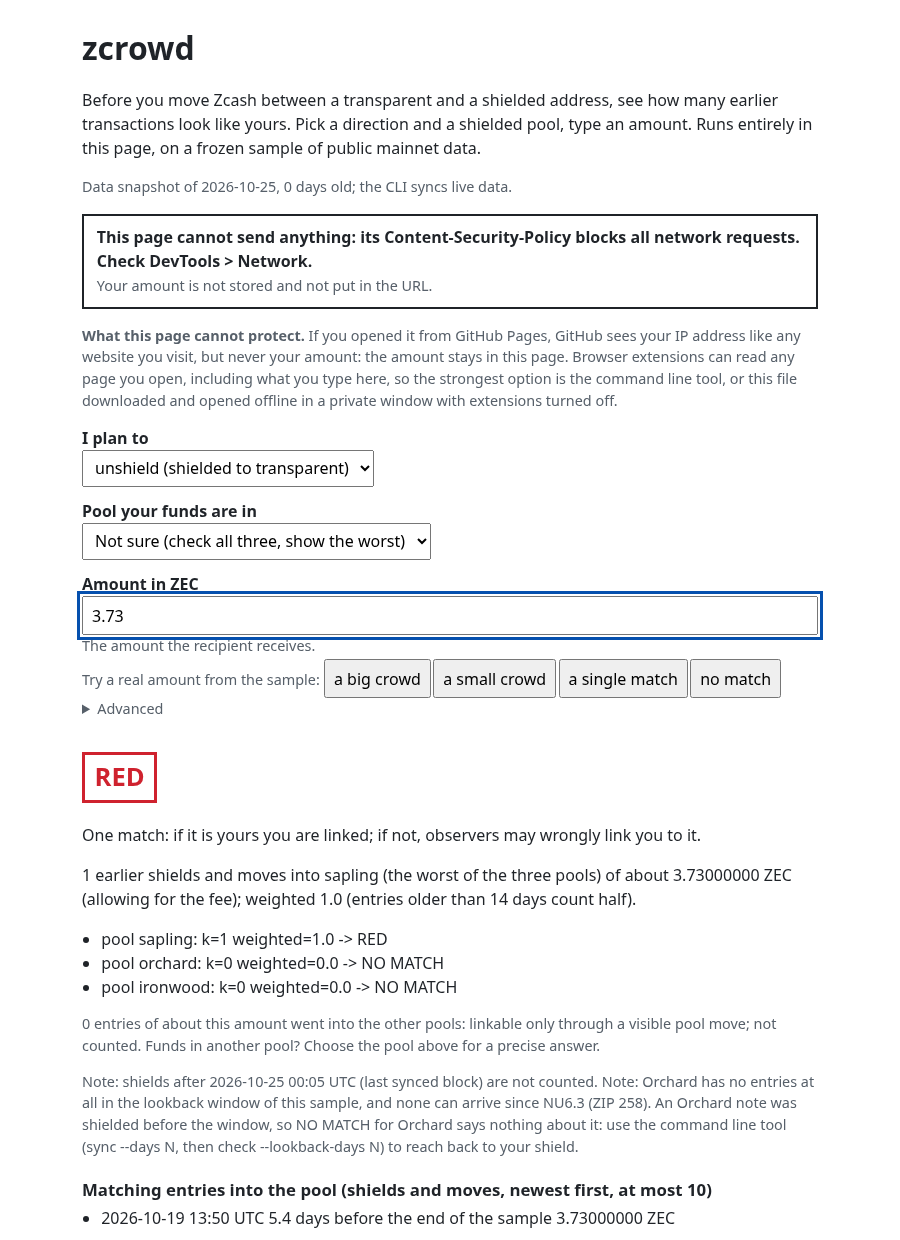
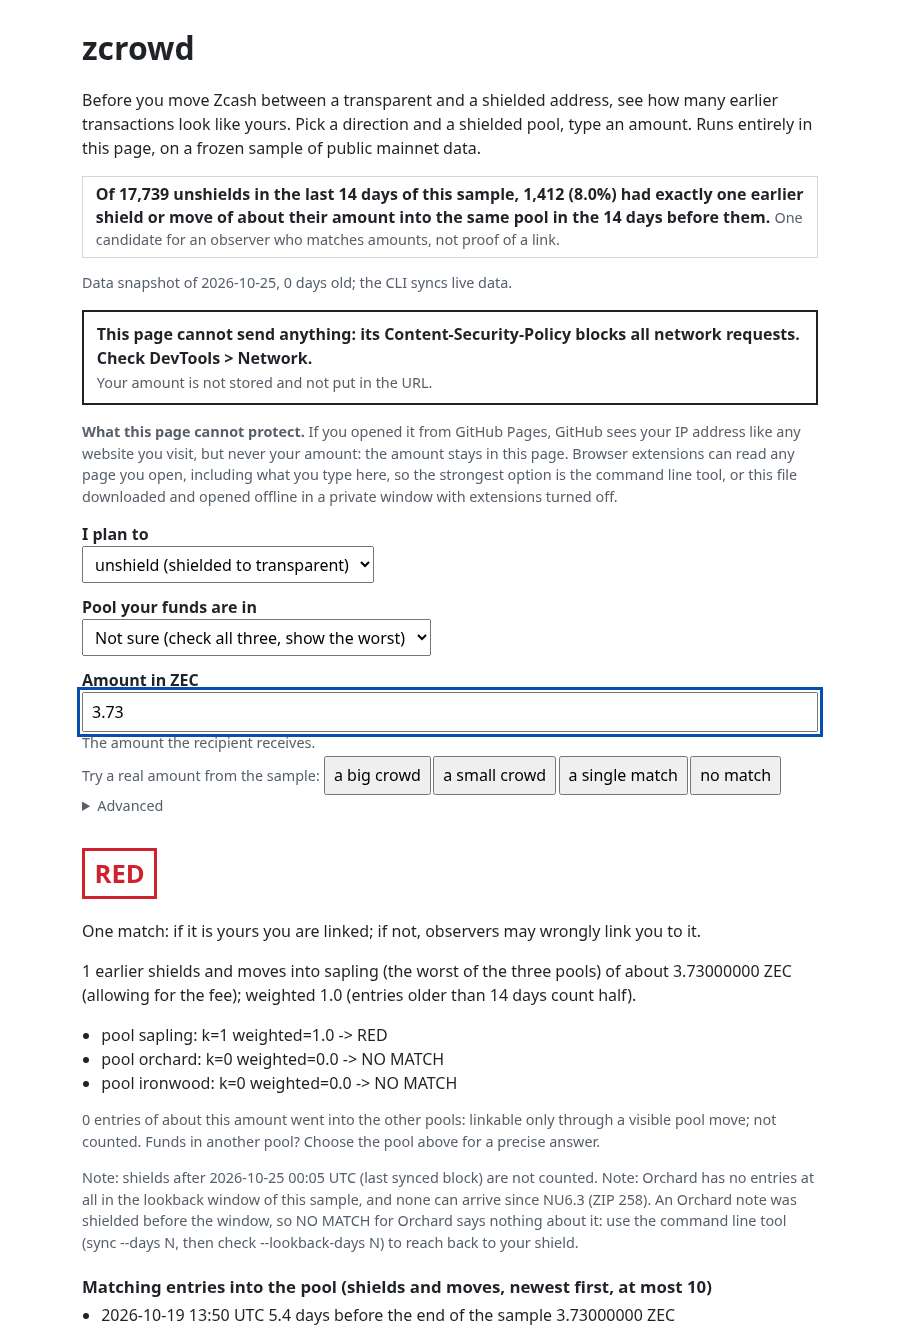
Web page: first box with the report's figures; size, SHA-256 and screenshot re-pinned
The page now opens with one box: of 17,739 unshields in the last 14 days of the
sample, 1,412 (8.0%) had exactly one earlier shield or move of about their
amount into the same pool in the 14 days before them. The text is fixed in the
template. tests/e2e.sh fails if its first words change or if the report's RED
row is not 1,412 (8.0%).

At 1280x800 the amount input stays on the first screen (top 692 px, bottom
731 px of 800). A taller version with three crowd cards put it at 819 px, below
the fold, and was not used.

web/index.html is rebuilt (836,193 bytes). README: the SHA-256 (3.1), the size
(13), the Tested code row, the hosted read-back dated to the page before the
box, a NOT VERIFIED line for the new hosted copy, the box described in 13, the
screenshot and its alt text. NOTES: the S9e size row. PRIVACY: the code-freeze
sentence.

Claude-Session: https://claude.ai/code/session_01GAS3TwEvq8rdhgJTGSQMuH

Changed region(s): [[0.0622, 0.0306, 0.9333, 1.0]]

diff --git a/web/index.html b/web/index.html
@@ -25,11 +25,13 @@
   :focus-visible { outline: 3px solid #0550ae; outline-offset: 2px; }
   ::placeholder { color: #57606a; opacity: 1; }
   select { max-width: 100%; }
+  .hero { border: 1px solid #d0d7de; padding: .4rem .8rem; margin: .75rem 0; line-height: 1.4; }
 </style>
 </head>
 <body>
 <h1>zcrowd</h1>
 <p>Before you move Zcash between a transparent and a shielded address, see how many earlier transactions look like yours. Pick a direction and a shielded pool, type an amount. Runs entirely in this page, on a frozen sample of public mainnet data.</p>
+<p class="hero"><b>Of 17,739 unshields in the last 14 days of this sample, 1,412 (8.0%) had exactly one earlier shield or move of about their amount into the same pool in the 14 days before them.</b> <span class="small">One candidate for an observer who matches amounts, not proof of a link.</span></p>
 <p class="small" id="snapshot"></p>
 
 <p class="box" id="cannot-send"><b>This page cannot send anything: its Content-Security-Policy blocks all network requests. Check DevTools &gt; Network.</b><br>

diff --git a/web/index.template.html b/web/index.template.html
@@ -25,11 +25,13 @@
   :focus-visible { outline: 3px solid #0550ae; outline-offset: 2px; }
   ::placeholder { color: #57606a; opacity: 1; }
   select { max-width: 100%; }
+  .hero { border: 1px solid #d0d7de; padding: .4rem .8rem; margin: .75rem 0; line-height: 1.4; }
 </style>
 </head>
 <body>
 <h1>zcrowd</h1>
 <p>Before you move Zcash between a transparent and a shielded address, see how many earlier transactions look like yours. Pick a direction and a shielded pool, type an amount. Runs entirely in this page, on a frozen sample of public mainnet data.</p>
+<p class="hero"><b>Of 17,739 unshields in the last 14 days of this sample, 1,412 (8.0%) had exactly one earlier shield or move of about their amount into the same pool in the 14 days before them.</b> <span class="small">One candidate for an observer who matches amounts, not proof of a link.</span></p>
 <p class="small" id="snapshot"></p>
 
 <p class="box" id="cannot-send"><b>This page cannot send anything: its Content-Security-Policy blocks all network requests. Check DevTools &gt; Network.</b><br>

diff --git a/README.md b/README.md
@@ -6,7 +6,7 @@
 
 **Try it:** the [live demo](https://kylne700.github.io/zcrowd/) (the one-file web page of section 13; GitHub sees your visit, never the amount) or the [demo video](https://youtu.be/ZAxaw6B81Ug).
 
-![The zcrowd web page opened from a local file after the amount 3.73 was typed for an unshield: the verdict RED (one earlier shield of about that amount, in Sapling), the three pool lines, the notes and the first matching entry.](docs/screenshot.png)
+![The zcrowd web page opened from a local file: the box with the report's figures first, then, after the amount 3.73 was typed for an unshield, the verdict RED (one earlier shield of about that amount, in Sapling), the three pool lines, the notes and the first matching entry.](docs/screenshot.png)
 
 An unshield (money leaving a shielded pool) shows its amount in public, and so did the shield it came from. If nobody else
 shielded about that amount around that time, an observer can pair the two. zcrowd reads the public record of every shield,
@@ -21,7 +21,7 @@ web page. It computes only what any chain observer can already compute, for your
 | Rust | 1.90 or newer (`rust-version` in `Cargo.toml`; `cargo +1.90.0 check --workspace --all-targets --locked` passes). The tests and the audit ran on 1.97.1, the version CI pins (the repository has no `rust-toolchain` file, so your own toolchain is used); the tests under 1.90 are NOT VERIFIED. A C compiler is needed (SQLite is bundled). |
 | First build | 76 s for `cargo build --release --locked` from an empty target directory (2026-10-25, on a Linux desktop, crates already downloaded; a second run the same day, with other jobs using the machine (load average 4 before it started), took 101 s; a first build elsewhere also downloads the crates). |
 | Platform | Linux is the tested platform (140 tests, the audit and `tests/e2e.sh`, by hand and in CI). macOS (aarch64) and Windows (x86_64-msvc) were built and tested in CI only: 135 and 132 tests passed in [run 40171306113](https://github.com/Kylne700/zcrowd/actions/runs/40171306113) (jobs 121102516531 and 121102516515, commit `70d5187`). Neither was run by hand on a real Mac or Windows PC, and no `sync` ran on either (NOT VERIFIED, end of this file). Windows has no network cut. |
-| Tested code | Commit `dd7f9ee` (called the final code below). Unless a line names another build, the example outputs and the test and audit results in this README are of that commit; the commits after it change documents (and the screenshot) and 3 lines of `.github/workflows/ci.yml` (a macOS fix, section 14). The CI runs named in this README are of `70d5187`. |
+| Tested code | Commit `dd7f9ee` (called the final code below). Unless a line names another build, the example outputs and the test and audit results in this README are of that commit; the commits after it change documents (and the screenshot), 3 lines of `.github/workflows/ci.yml` (a macOS fix, section 14) and the web page: the commit that adds the page's first box (the report's figures, section 13) changes `web/index.template.html`, the built `web/index.html` (its size and SHA-256, section 3.1) and 2 lines of `tests/e2e.sh`; with that box in place the tests, `tests/e2e.sh` with the audit, the parity test and the headless test (section 13) were run again and passed. The CI runs named in this README are of `70d5187`, before that box. |
 | Data | `fixtures/flows-sample.ndjson`: 74,643 real mainnet events, blocks 3,493,237 to 3,529,525 (2026-09-23 08:32 UTC to 2026-10-25 00:05 UTC, 31.65 days). The quick start and every example below run on it without a network. |
 
 1. [The leak](#1-the-leak)
@@ -168,7 +168,7 @@ sha256sum web/index.html
 ```
 
 ```
-3da4d6c73daa1b7762a9374fbc6e634114aaad400975d4a89d806c59d343be96  web/index.html
+5c207b85884bf8d460a78c7044069294682542ea07391e19244b8a5297f57126  web/index.html
 ```
 
 (macOS: `shasum -a 256 web/index.html`.) Open the file in a browser (a private window with extensions off is the
@@ -999,7 +999,7 @@ LIVE=1 bash tests/audit.sh      # also the live Tor leak check (real network, a 
 
 ## 13. Web page
 
-`web/index.html` is one self-contained file: data, code and style inline, no libraries, no WASM (835,793 bytes, holding 34,293
+`web/index.html` is one self-contained file: data, code and style inline, no libraries, no WASM (836,193 bytes, holding 34,293
 shield and move entries of the sample). It is built by `node web/build.mjs` from `web/index.template.html` and the sample,
 and audit P10 checks that the committed file is exactly what that builds. Open it from disk or host it as a static file.
 It says on the page: "This page cannot send anything: its Content-Security-Policy blocks all network requests. Check
@@ -1013,10 +1013,16 @@ lookback window of this sample, and none can arrive since NU6.3 (ZIP 258). ...")
 the rule of `check` (section 5, item 4). The parity test compares the page's answers and notes with the command line,
 and the headless test checks the texts of the page (section 12).
 
+The first thing on the page, above the form, is a box that quotes section 1: "Of 17,739 unshields in the last 14 days of
+this sample, 1,412 (8.0%) had exactly one earlier shield or move of about their amount into the same pool in the 14 days
+before them." The text is fixed in `web/index.template.html`; the page computes nothing for it. `tests/e2e.sh` fails if the
+first words of the box change or if the report's RED row is not 1,412 (8.0%). 17,739 is the sum of the report's four rows
+(section 1); no script compares it with the report.
+
 The Content-Security-Policy is a `<meta>` tag inside the file (section 3.1). It protects the copy you opened; a host that
 serves you a modified copy is the reason to compare the SHA-256 of section 3.1. When GitHub Pages serves it, the HTTP headers
 are GitHub's, not ours. Verified in headless Chromium 154, Firefox 157 and WebKit 27.2, from `http://` and `file://`
-(`BROWSERS=chromium,firefox,webkit node web/test/headless.mjs`, 2026-10-25, 16 s, last line):
+(`BROWSERS=chromium,firefox,webkit node web/test/headless.mjs`, on the page with its first box, 2026-10-25, 15 s, last line):
 
 ```
 HEADLESS OK (chromium 154.0.8037.92, firefox 157.0, webkit 27.2; the server saw 3 page loads and nothing else)
@@ -1025,8 +1031,10 @@ HEADLESS OK (chromium 154.0.8037.92, firefox 157.0, webkit 27.2; the server saw 
 Real Safari is NOT VERIFIED. A hosted copy is live at https://kylne700.github.io/zcrowd/ and `.github/workflows/pages.yml`
 ran on `70d5187` (run 40171306059, jobs 121102516123 and 121102545676); it publishes `web/index.html` and nothing else,
 every job has `contents: read`, and only the deploy job also has `pages: write` and `id-token: write`. On 2026-10-25 the
-address answered with 835,793 bytes (HTTP 200, `text/html`) whose SHA-256 is the value in section 3.1, so the hosted copy is
-byte-identical to `web/index.html`. The headless test also passed in CI, one job per browser (section 14).
[1 lines of base64/hex data omitted]
+the value of section 3.1 at commit `599f119` (the page before its first box), so the hosted copy was then byte-identical
+to `web/index.html` of that commit. The hosted copy of the page with its first box (836,193 bytes) has not been read back
+(NOT VERIFIED, end of this file). The headless test also passed in CI, one job per browser (section 14), on the page before that box.
 
 ## 14. Dependencies, licence, roadmap
 
@@ -1076,6 +1084,8 @@ Platforms and publishing
   handler (`tests/stop.rs` is Unix-only; the Windows fallback compiled in job 121102516515 and was never run). A Linux
   aarch64 build.
 - GitHub: `release.yml` (including its draft step) has not run.
+- The hosted copy of the page with its first box (836,193 bytes, SHA-256 in section 3.1) and a CI run on it: neither has been
+  seen. The read-back of section 13 and the CI runs of section 14 are of the page before that box.
 - The tests under Rust 1.90 (only `cargo check --workspace --all-targets --locked` was run on it; the tests ran on 1.97.1).
 - A real default Ubuntu 24.04 host on which the empty network namespace is refused: by hand that case was only simulated
   with `max_user_namespaces=0`; the CI runner of job 121102516415 (`apparmor_restrict_unprivileged_userns=1`) still gave

diff --git a/docs/PRIVACY.md b/docs/PRIVACY.md
@@ -13,7 +13,7 @@ bash tests/e2e.sh            # formatting, lints, all 140 tests, the command lin
 
 A step that cannot run on a machine prints `SKIP ... (NOT VERIFIED)`; the audit counts the skips and its last line says
 so. Every result on this page is of the final code (commit `dd7f9ee`; the commits after it change documents, the
-screenshot and 3 lines of `.github/workflows/ci.yml`; a result from a named CI run is of `70d5187`), run
+screenshot, 3 lines of `.github/workflows/ci.yml` and the web page (its first box, README section 13); a result from a named CI run is of `70d5187`), run
 on 2026-10-25 on a Linux desktop (x86_64) with Rust 1.97.1. The limits of the whole tool are the one list in
 [README section 11](../README.md#11-honest-limits), and what was never run or seen is the one list
 [NOT VERIFIED](../README.md#not-verified) at the end of the README.

diff --git a/NOTES.md b/NOTES.md
@@ -643,7 +643,7 @@ tip: sync on a schedule, not right before you transact. The server learns nothin
 | 1.2497 ZEC | Ironwood 592 (437.0), Sapling 157 | Ironwood 591 (438.0), Sapling 157 |
 | 125 ZEC | Sapling 40 | Sapling 32 |
 | `--shield 1.24985` | Sapling 88 (64.5), Ironwood 8 (6.0) | Sapling 87 (63.0), Ironwood 9 (6.5) |
-| events file, `web/index.html` | 17,770,521 and 771,319 bytes | 19,396,366 and 835,793 bytes |
+| events file, `web/index.html` | 17,770,521 and 771,319 bytes | 19,396,366 and 835,793 bytes (the page: 836,193 since the commit that adds its first box) |
 
 ### Final run (S9e)
 
